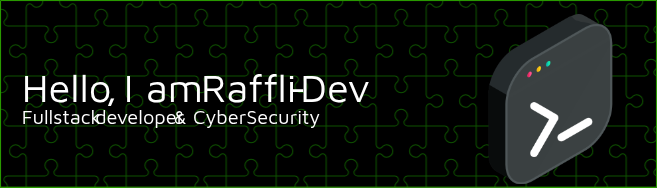
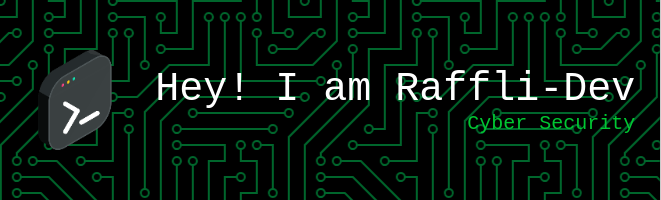
Update header profile

diff --git a/README.md b/README.md
@@ -1,5 +1,5 @@
 <!-- Untuk edit logo ![logo](link foto github) -->
-![Raffli-Dev](github-header-image.png)
+<div align="center">![Raffli-Dev](github-header-image.png)</div>
 <h1 align="center">Hi 👋, I'm Raffli Bisma Aryasatya</h1>
 <h3 align="center">I am a Developer & Pentester from Indonesia</h3>
 
